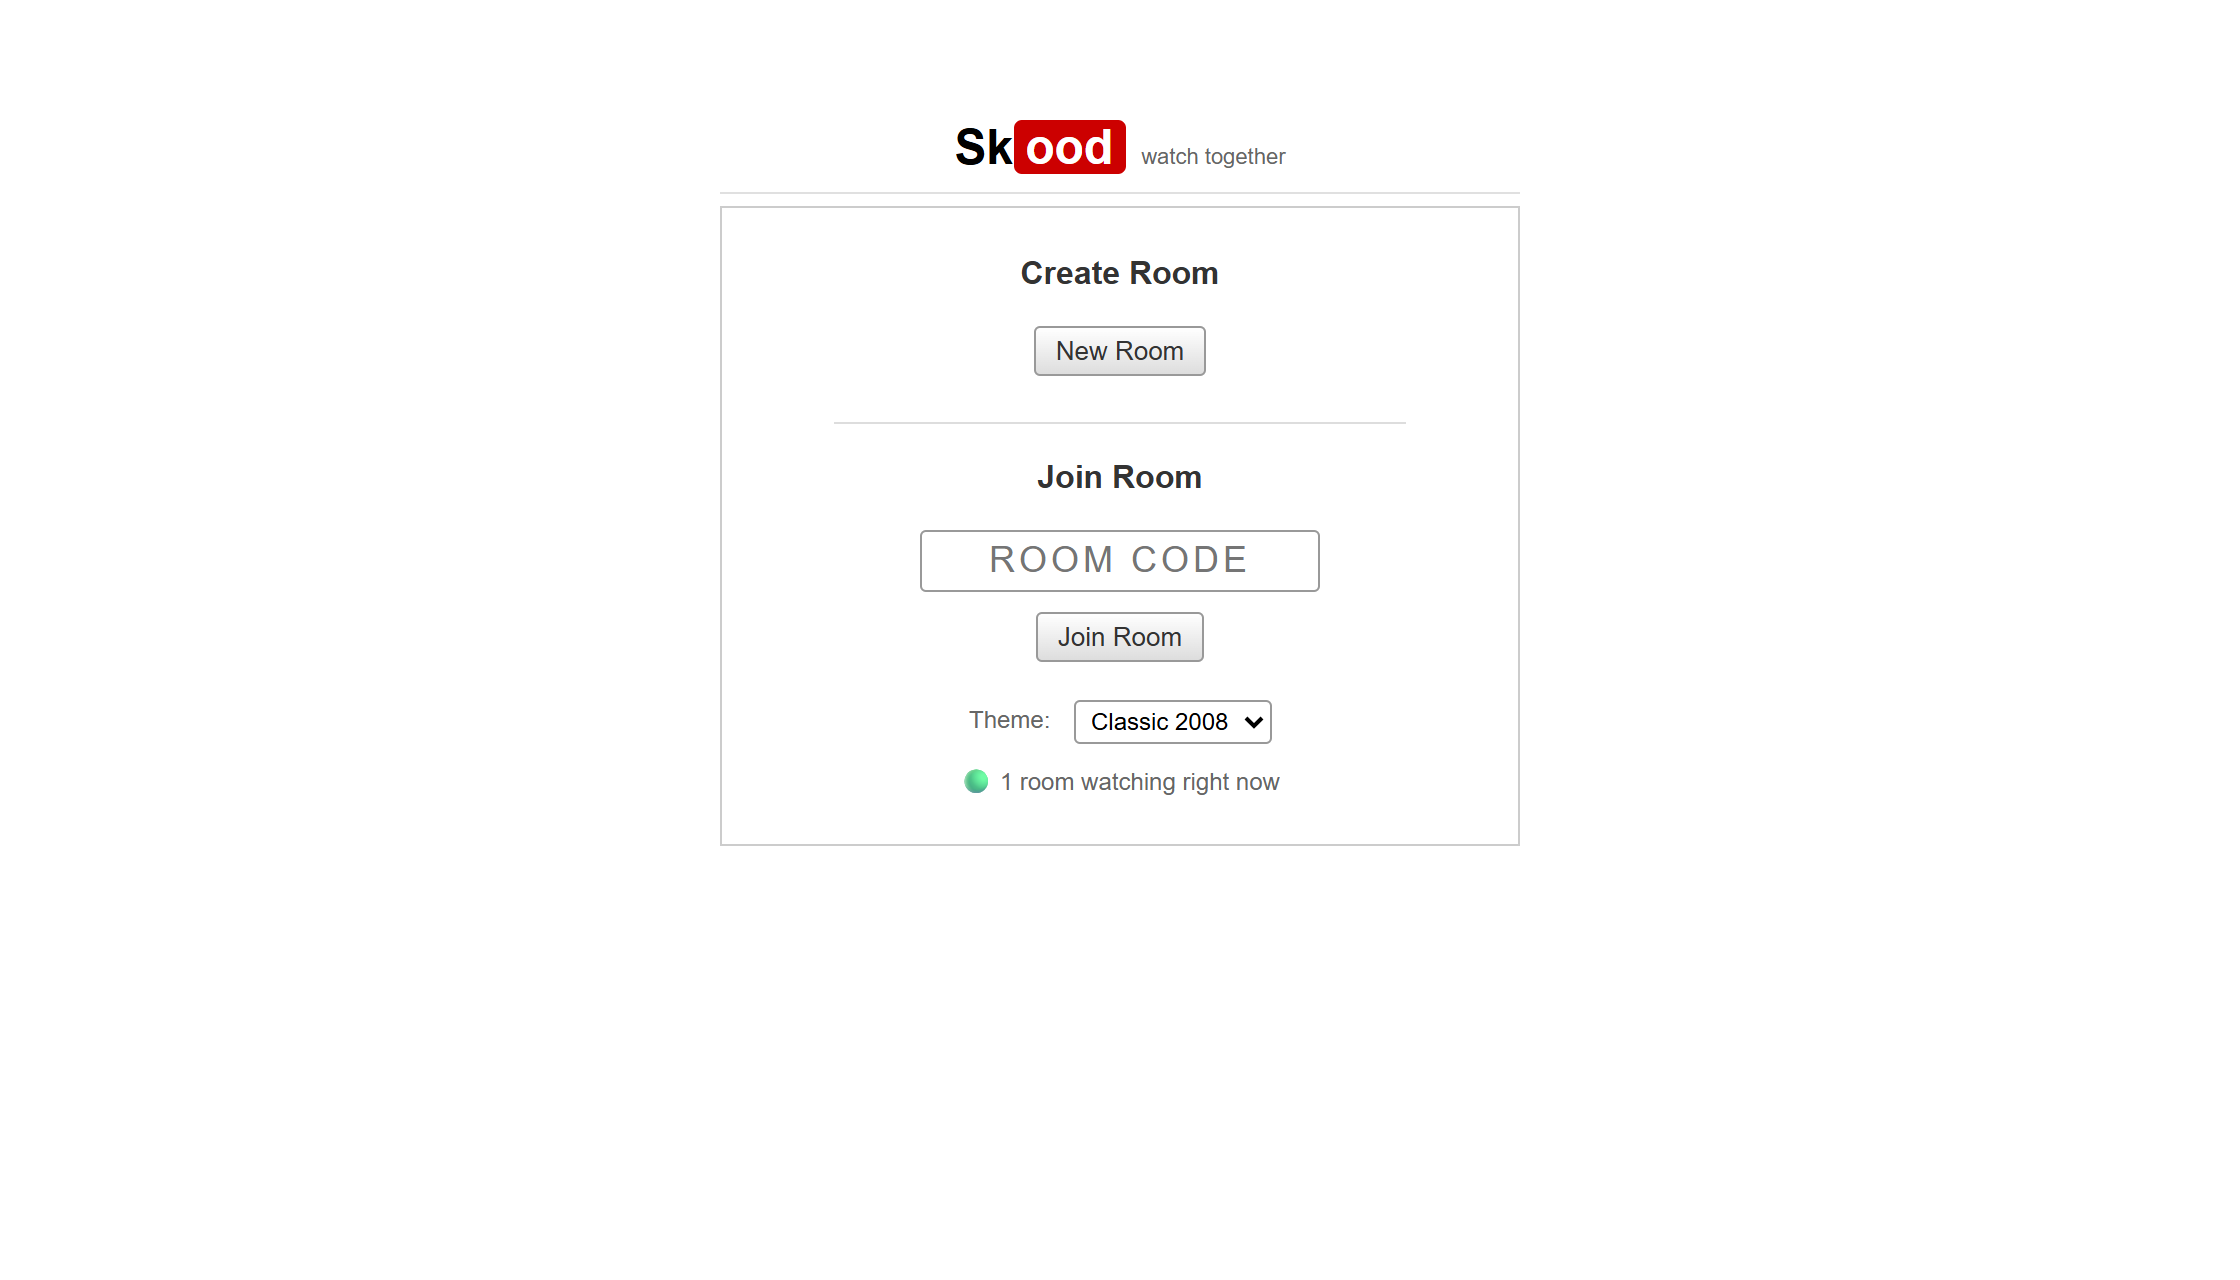
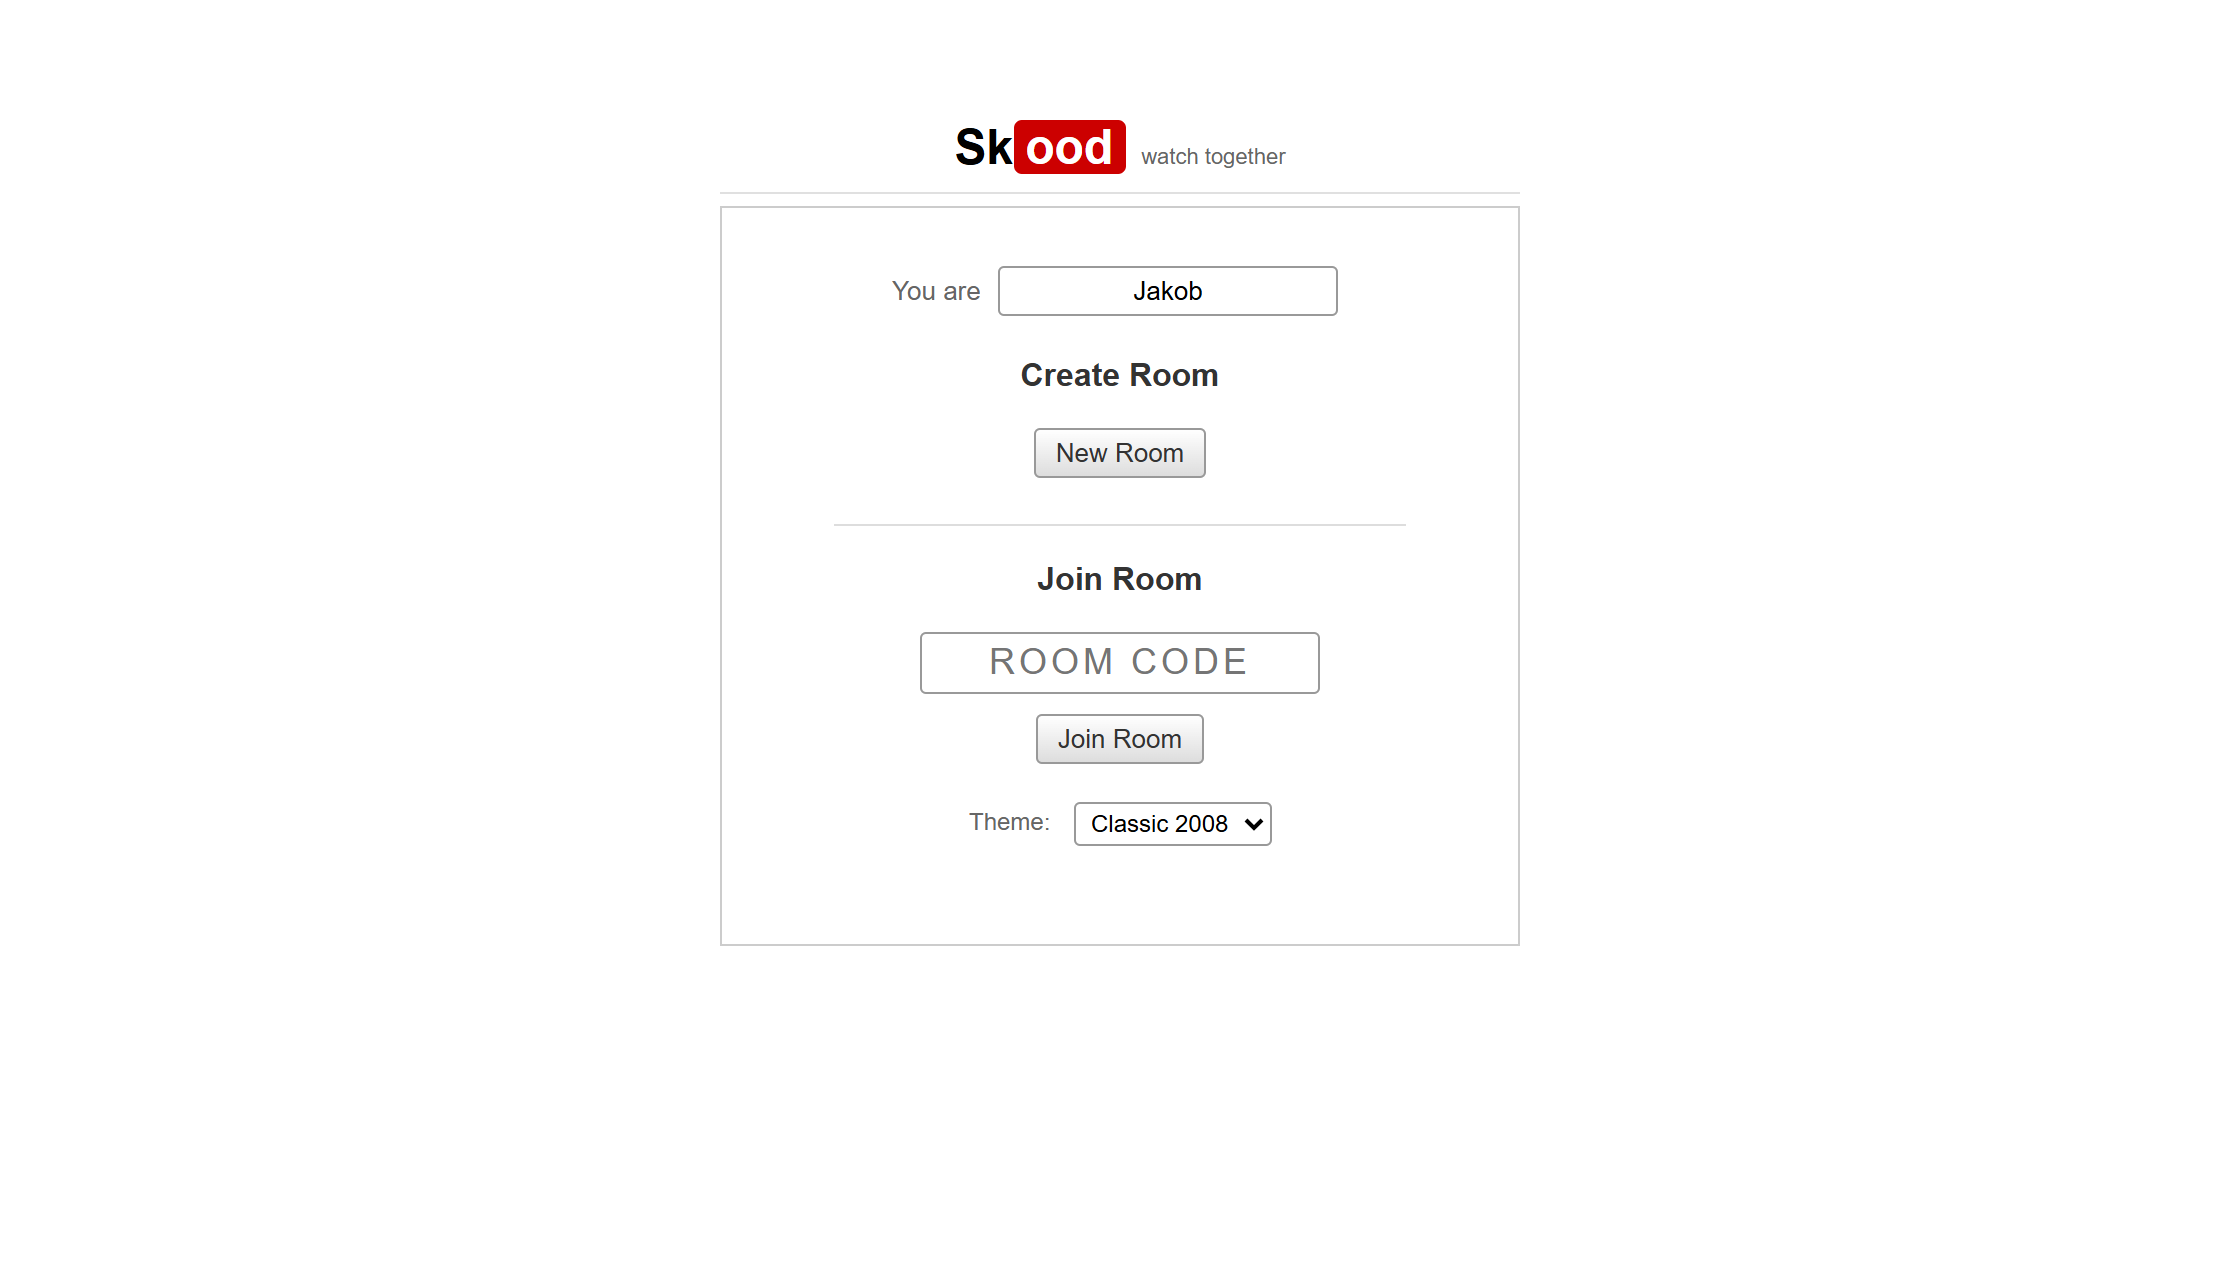
Follow the repo rename and drop the startup name prompt
The repository is now 7akob/skood, so the in-repo links, CI badge,
package metadata and in-app footer point at the new name instead of
relying on GitHub redirects.

Naming no longer opens a dialog. A name such as GroovyFalcon is picked
on the first visit and shown in the lobby as an ordinary field, and
renaming inside a room edits in place, with Enter to commit and Escape
to cancel. The old prompt fired before the page had rendered, and
cancelling it re-prompted forever because of the retry loop.

Changed region(s): [[0.4062, 0.3438, 0.5938, 0.6562], [0.4375, 0.1875, 0.5625, 0.3125], [0.4062, 0.2188, 0.4375, 0.25]]

diff --git a/public/script.js b/public/script.js
@@ -49,25 +49,75 @@ let loopEnabled = false;
 let currentQueueLength = 0;
 
 // -------------------- USERNAME --------------------
-let username = localStorage.getItem("yt_username");
-if (!username) {
-  let entered = "";
-  while (!entered) {
-    entered = (prompt("Welcome! What's your name?") || "").trim().slice(0, 20);
-  }
-  username = entered;
-  localStorage.setItem("yt_username", username);
+// Nobody should be met by a modal asking who they are before they have even
+// seen the page, so a name is picked for you and shown in the lobby where you
+// can change it like any other field.
+const NAME_ADJECTIVES = ["Happy", "Sleepy", "Turbo", "Retro", "Cosmic", "Neon", "Mellow", "Snappy", "Groovy", "Pixel"];
+const NAME_ANIMALS = ["Otter", "Panda", "Falcon", "Gecko", "Walrus", "Badger", "Puffin", "Moose", "Heron", "Lynx"];
+
+function randomName() {
+  const pick = (list) => list[Math.floor(Math.random() * list.length)];
+  return pick(NAME_ADJECTIVES) + pick(NAME_ANIMALS);
 }
 
-function editUsername() {
-  const newName = prompt("Enter your name:", username);
-  if (newName === null) return;
-  const trimmed = newName.trim().slice(0, 20);
-  if (!trimmed) return;
+let username = null;
+try { username = localStorage.getItem("yt_username"); } catch {}
+if (!username) {
+  username = randomName();
+  try { localStorage.setItem("yt_username", username); } catch {}
+}
+
+function applyUsername(name) {
+  const trimmed = (name || "").trim().slice(0, 20);
+  if (!trimmed || trimmed === username) return;
   username = trimmed;
-  localStorage.setItem("yt_username", username);
-  document.getElementById("usernameDisplay").textContent = username;
+  try { localStorage.setItem("yt_username", username); } catch {}
+  const display = document.getElementById("usernameDisplay");
+  if (display) display.textContent = username;
+  const field = document.getElementById("nameInput");
+  if (field && field.value !== username) field.value = username;
   if (socket.connected && currentRoomId) socket.emit("update_username", username);
+}
+
+// Reads the lobby field, and never lets it sit empty.
+function commitLobbyName() {
+  const field = document.getElementById("nameInput");
+  if (!field) return;
+  const trimmed = field.value.trim().slice(0, 20);
+  if (trimmed) applyUsername(trimmed);
+  else field.value = username;
+}
+
+// Renaming edits in place. A blocking dialog is a lot of ceremony for a name.
+function editUsername() {
+  const display = document.getElementById("usernameDisplay");
+  if (!display || display.dataset.editing === "1") return;
+  display.dataset.editing = "1";
+
+  const field = document.createElement("input");
+  field.className = "name-edit";
+  field.value = username;
+  field.maxLength = 20;
+
+  let closed = false;
+  const close = (commit) => {
+    if (closed) return;
+    closed = true;
+    const value = field.value;
+    field.replaceWith(display);
+    display.dataset.editing = "";
+    if (commit) applyUsername(value);
+  };
+
+  field.onkeydown = (e) => {
+    if (e.key === "Enter") close(true);
+    if (e.key === "Escape") close(false);
+  };
+  field.onblur = () => close(true);
+
+  display.replaceWith(field);
+  field.focus();
+  field.select();
 }
 
 // -------------------- SOCKET --------------------
@@ -163,6 +213,7 @@ function joinRoomFromInput() {
 }
 
 function enterRoom(roomId) {
+  commitLobbyName();
   currentRoomId = roomId;
   history.replaceState({}, "", "?room=" + roomId);
   document.getElementById("roomCodeDisplay").textContent = roomId;
@@ -237,8 +288,10 @@ function showCopiedTip() {
   setTimeout(() => tip.remove(), 1400);
 }
 
-// Check URL on load, skip lobby if room param present
+// Show the name we picked, then skip the lobby if the URL carries a room
 (function () {
+  const field = document.getElementById("nameInput");
+  if (field) field.value = username;
   const params = new URLSearchParams(location.search);
   const room = params.get("room");
   if (room) enterRoom(room.toUpperCase());

diff --git a/public/index.html b/public/index.html
@@ -31,6 +31,10 @@
 <div id="lobby">
   <h1><span class="logo-sk">Sk</span><span class="logo-badge">ood</span><span class="logo-tagline">watch together</span></h1>
   <div id="lobbyBox">
+    <div class="lobby-name">
+      You are <input id="nameInput" maxlength="20" onchange="commitLobbyName()" onblur="commitLobbyName()">
+    </div>
+
     <h2>Create Room</h2>
     <button onclick="createRoom()">New Room</button>
 
@@ -134,17 +138,17 @@
   <div id="siteFooter">
     <div class="footer-col">
       <strong>Skood</strong>
-      <a href="https://github.com/7akob/skood-2-g">Source</a>
-      <a href="https://github.com/7akob/skood-2-g#readme">About</a>
+      <a href="https://github.com/7akob/skood">Source</a>
+      <a href="https://github.com/7akob/skood#readme">About</a>
     </div>
     <div class="footer-col">
       <strong>Help</strong>
-      <a href="https://github.com/7akob/skood-2-g/issues/new?template=bug_report.yml">Report a bug</a>
-      <a href="https://github.com/7akob/skood-2-g/blob/main/CONTRIBUTING.md">Contribute</a>
+      <a href="https://github.com/7akob/skood/issues/new?template=bug_report.yml">Report a bug</a>
+      <a href="https://github.com/7akob/skood/blob/main/CONTRIBUTING.md">Contribute</a>
     </div>
     <div class="footer-col">
       <strong>Project</strong>
-      <a href="https://github.com/7akob/skood-2-g/issues">Ideas</a>
+      <a href="https://github.com/7akob/skood/issues">Ideas</a>
       <a href="https://buymeacoffee.com/7akob">Support the server</a>
     </div>
     <div class="footer-note">Skood is free and open source. Not affiliated with YouTube.</div>

diff --git a/public/style.css b/public/style.css
@@ -439,6 +439,23 @@ button:hover {
   font-size: 12px;
   vertical-align: middle;
 }
+.lobby-name {
+  margin-bottom: 16px;
+  font-size: 13px;
+  color: var(--text-muted);
+}
+#nameInput {
+  width: min(170px, 100%);
+  text-align: center;
+}
+.name-edit {
+  width: 130px;
+  margin: 0 2px;
+  padding: 1px 4px;
+  font-size: 12px;
+  vertical-align: middle;
+}
+
 .lobby-theme {
   margin-top: 14px;
   font-size: 12px;

diff --git a/README.md b/README.md
@@ -6,7 +6,7 @@
 
 [![License: MIT](https://img.shields.io/badge/license-MIT-blue.svg)](LICENSE)
 [![Node >= 18](https://img.shields.io/badge/node-%3E%3D18-brightgreen.svg)](package.json)
-[![CI](https://github.com/7akob/skood-2-g/actions/workflows/ci.yml/badge.svg)](https://github.com/7akob/skood-2-g/actions/workflows/ci.yml)
+[![CI](https://github.com/7akob/skood/actions/workflows/ci.yml/badge.svg)](https://github.com/7akob/skood/actions/workflows/ci.yml)
 [![PRs welcome](https://img.shields.io/badge/PRs-welcome-brightgreen.svg)](CONTRIBUTING.md)
 
 <img src="docs/screenshots/room-yt2008.png" alt="A Skood room in the Classic 2008 theme: synced player, shared queue, favorites and chat" width="760">
@@ -25,7 +25,7 @@ Skood exists because watching a video together shouldn't require an account, a s
 What "the opposite" means in practice:
 
 - No ads and no trackers of its own. Nothing breaks if you run an ad blocker, because there is nothing to block. Whatever YouTube does inside its own player is untouched.
-- No accounts. Pick a name and you're in.
+- No accounts, and nothing to fill in before you can use it. You arrive with a name already picked for you and can change it whenever you like.
 - No database. Rooms live in the server's memory and evaporate when the last person leaves. There is nothing to breach, sell, or subpoena.
 - No lock-in. MIT licensed, a server that fits in 260 lines, self-hostable in two commands. It stays free.
 
@@ -50,13 +50,13 @@ What "the opposite" means in practice:
 | :---: | :---: | :---: |
 | ![The Classic 2008 theme](docs/screenshots/room-yt2008.png) | ![The Neon 90s theme](docs/screenshots/room-neon90s.png) | ![The Midnight theme](docs/screenshots/room-midnight.png) |
 
-Switch anytime with the selector in the lobby or the room. All three are the same HTML: Classic 2008 rebuilds it into a period watch page, with a masthead search bar, a nav strip, related-video style sidebar modules and a footer, using CSS grid areas rather than different markup. Adding your own theme is a small diff (see [CONTRIBUTING.md](CONTRIBUTING.md)), and [the theme gallery issue](https://github.com/7akob/skood-2-g/issues/2) has a ready-designed light theme waiting for a first contributor.
+Switch anytime with the selector in the lobby or the room. All three are the same HTML: Classic 2008 rebuilds it into a period watch page, with a masthead search bar, a nav strip, related-video style sidebar modules and a footer, using CSS grid areas rather than different markup. Adding your own theme is a small diff (see [CONTRIBUTING.md](CONTRIBUTING.md)), and [the theme gallery issue](https://github.com/7akob/skood/issues/2) has a ready-designed light theme waiting for a first contributor.
 
 ## Quick start
 
 ```bash
-git clone https://github.com/7akob/skood-2-g.git
-cd skood-2-g
+git clone https://github.com/7akob/skood.git
+cd skood
 npm install
 npm start
 ```
@@ -131,11 +131,11 @@ Yes. Free to use at [skood.jkb.app](https://skood.jkb.app), free to self-host, M
 
 ## Feedback and contributing
 
-- Something broke? [File a bug](https://github.com/7akob/skood-2-g/issues/new?template=bug_report.yml). Takes two minutes.
-- Missing a feature? [Suggest it](https://github.com/7akob/skood-2-g/issues/new?template=feature_request.yml).
-- Do frontend or UX work? This is the part of Skood that needs help most. [Issue #4](https://github.com/7akob/skood-2-g/issues/4) lists the rough edges I already know about, from the blocking browser dialogs to the missing accessibility pass, each one small enough for a single pull request.
-- Want to add a theme? [The theme gallery](https://github.com/7akob/skood-2-g/issues/2) walks you through it, and a designed but unbuilt light theme is up for grabs.
-- Want to hack on it? Start with [CONTRIBUTING.md](CONTRIBUTING.md) and the [`help wanted`](https://github.com/7akob/skood-2-g/issues?q=is%3Aissue+is%3Aopen+label%3A%22help+wanted%22) and [`good first issue`](https://github.com/7akob/skood-2-g/issues?q=is%3Aissue+is%3Aopen+label%3A%22good+first+issue%22) labels.
+- Something broke? [File a bug](https://github.com/7akob/skood/issues/new?template=bug_report.yml). Takes two minutes.
+- Missing a feature? [Suggest it](https://github.com/7akob/skood/issues/new?template=feature_request.yml).
+- Do frontend or UX work? This is the part of Skood that needs help most. [Issue #4](https://github.com/7akob/skood/issues/4) lists the rough edges I already know about, from the blocking browser dialogs to the missing accessibility pass, each one small enough for a single pull request.
+- Want to add a theme? [The theme gallery](https://github.com/7akob/skood/issues/2) walks you through it, and a designed but unbuilt light theme is up for grabs.
+- Want to hack on it? Start with [CONTRIBUTING.md](CONTRIBUTING.md) and the [`help wanted`](https://github.com/7akob/skood/issues?q=is%3Aissue+is%3Aopen+label%3A%22help+wanted%22) and [`good first issue`](https://github.com/7akob/skood/issues?q=is%3Aissue+is%3Aopen+label%3A%22good+first+issue%22) labels.
 
 The one rule: it stays vanilla. No frameworks, no build step, no database, no API keys.
 
